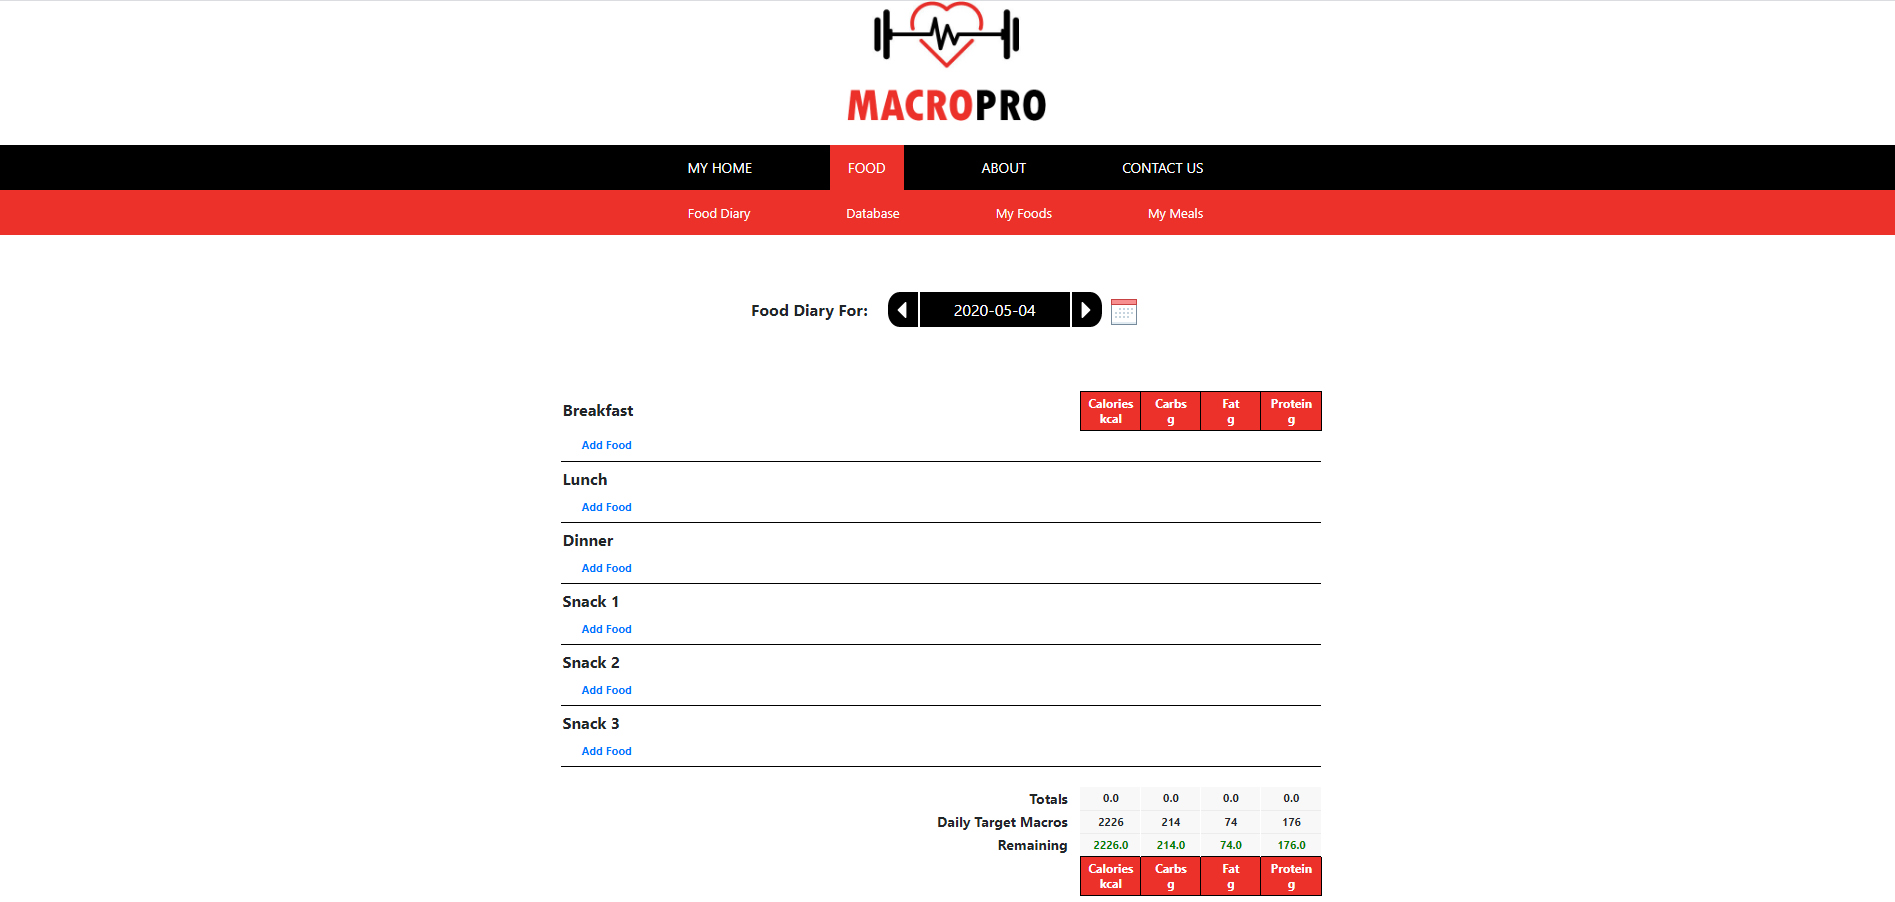
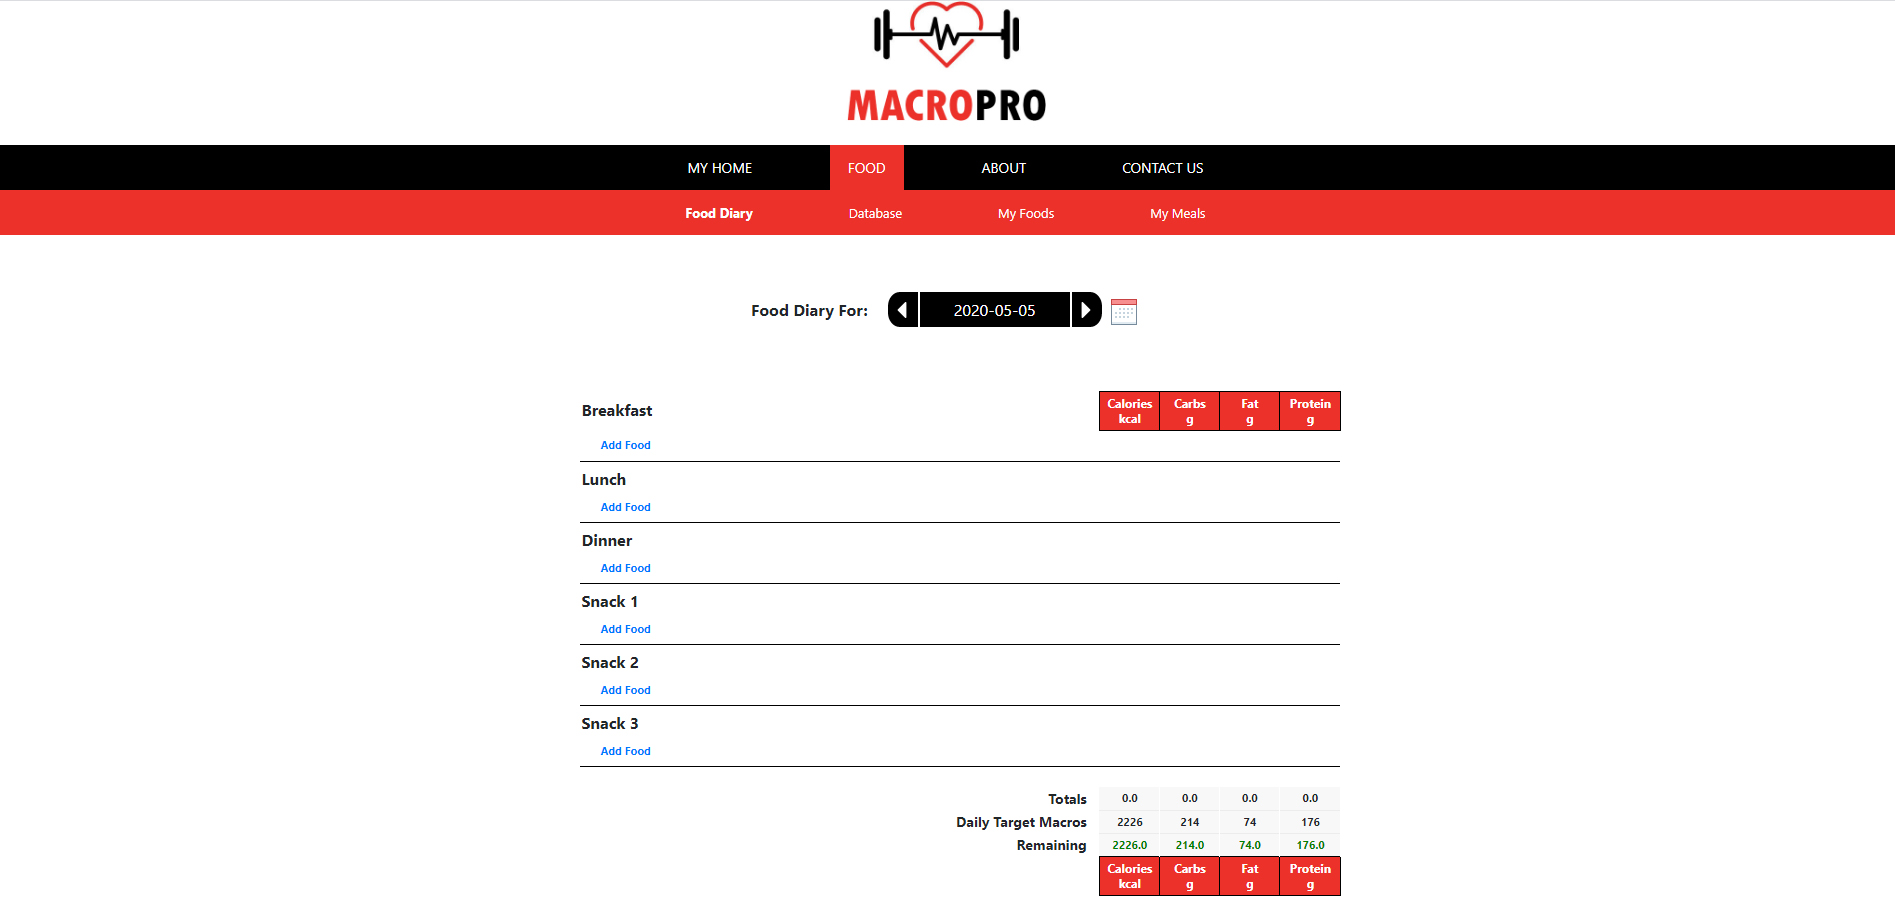
Updating README

diff --git a/src/main/webapp/WEB-INF/view/diary.html b/src/main/webapp/WEB-INF/view/diary.html
@@ -13,7 +13,7 @@
 		.diary-container {
 			margin-top: 3%;
     		position: relative;
-			left: 10%;
+			left: 9.5%;
 		}
 		.date-container {
 		  	display: table;

diff --git a/README.md b/README.md
@@ -1,5 +1,10 @@
-# MacroPro
-MacroPro - personal fitness guide and daily nutrition tracker <br/>
+# MacroPro - personal fitness guide and daily nutrition tracker
 
+**Login Page:** <br/>
 ![](screenshots/login-page.jpg) <br/><br/>
-![](screenshots/diary-page.jpg)
+
+**Diary Page:** <br/>
+![](screenshots/diary-page.jpg) <br/><br/>
+
+**Diary Page (with foods added to Lunch):** <br/>
+![](screenshots/diary-page-food.jpg) <br/><br/>
